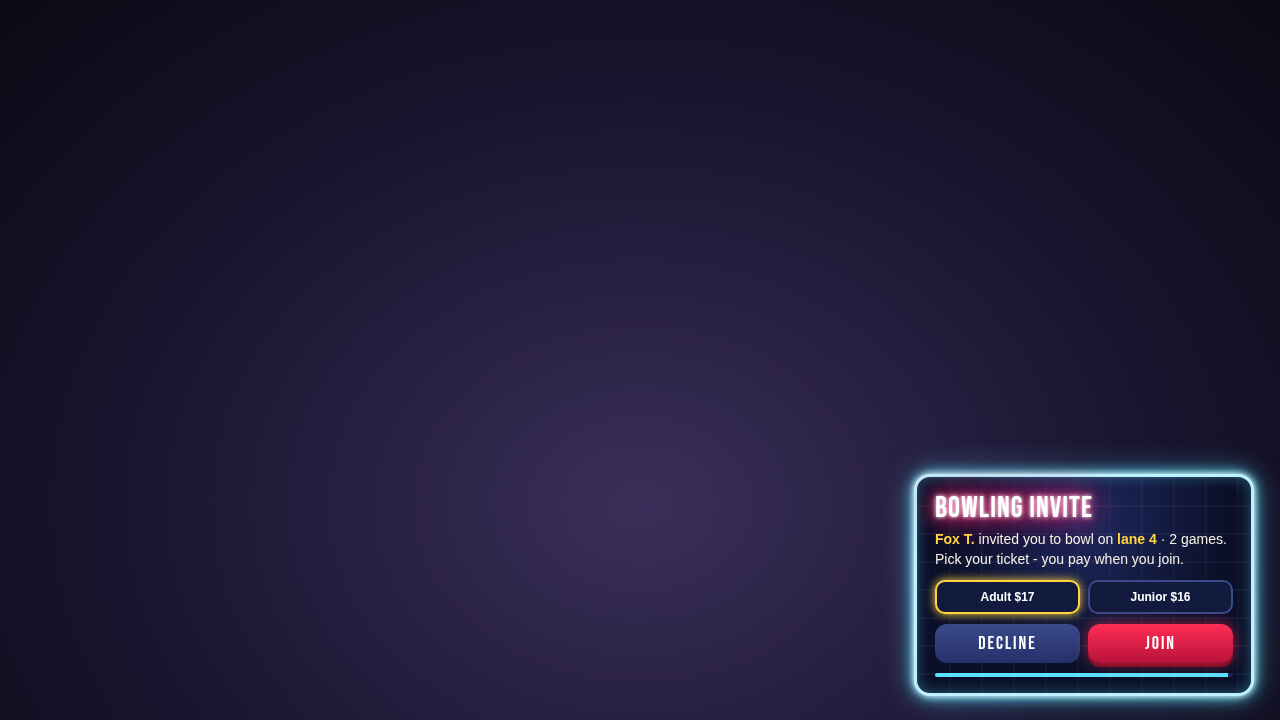
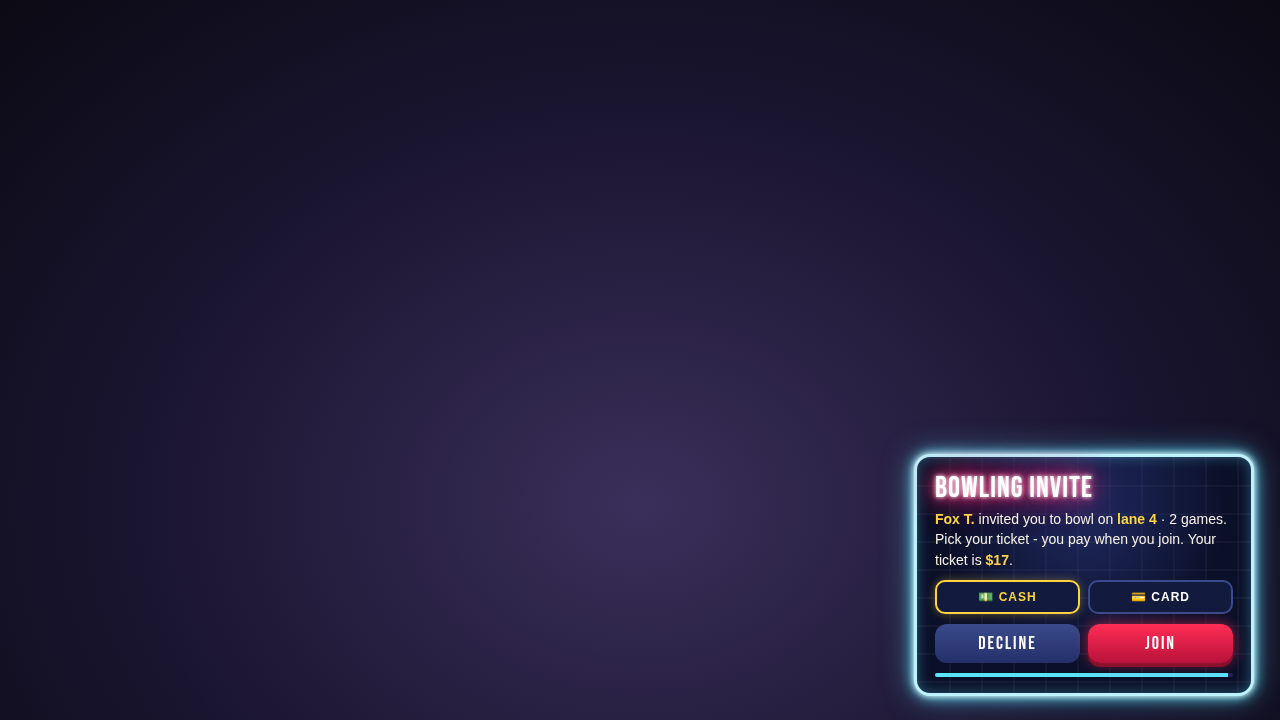
nrp-bowling v2.6.1: choose cash or card when paying
- Cash / Card picker on the price sheet and on pay-your-own invites
- Charges only the chosen account (no silent fallback) and refunds go back
  to the account that paid
- Config.PayMethods lists the options; Config.Account is the default

Claude-Session: https://claude.ai/code/session_01Jvp4fH8hKZq8xQCDQJ6fc4

Changed region(s): [[0.6875, 0.6111, 1.0, 0.8861], [0.875, 0.825, 0.9375, 0.8556]]

diff --git a/fivem/nrp-bowling/html/index.html b/fivem/nrp-bowling/html/index.html
@@ -156,6 +156,10 @@ html, body { width: 100%; height: 100%; overflow: hidden; background: transparen
 .inv.on .box { background: var(--cyan); border-color: var(--cyan); color: #04202a; }
 .inv.off { opacity: .4; cursor: default; }
 .empty { color: var(--muted); font-size: 12px; padding: 8px 2px; }
+.paym { display: flex; gap: 8px; }
+.paym button { flex: 1; padding: 8px; border-radius: 10px; border: 2px solid #3a4a8a; background: #121a3e; color: #fff; font-weight: 800; cursor: pointer; font-size: 12px; letter-spacing: 1px; }
+.paym button.on { border-color: var(--gold); color: var(--gold); box-shadow: 0 0 10px rgba(255,210,63,.35); }
+#invite .paym { margin-bottom: 10px; }
 .total { display: flex; justify-content: space-between; align-items: baseline; font-size: 13px; color: var(--muted); }
 .total b { font-size: 34px; color: #fff; font-family: 'Lanes', Impact, sans-serif; letter-spacing: 1px; }
 .btn { border: none; border-radius: 12px; padding: 12px; cursor: pointer; font-family: 'Lanes', Impact, sans-serif; font-size: 22px; letter-spacing: 2px; background: linear-gradient(var(--hot), #b8123a); color: #fff; box-shadow: 0 0 14px rgba(255,45,85,.6), 0 4px 0 #6c0a22; }
@@ -252,6 +256,7 @@ html, body { width: 100%; height: 100%; overflow: hidden; background: transparen
             <div class="sel-card" id="oSel"><div class="l">Pick something from the menu</div><div class="d">Tap a price on the left.</div></div>
             <div class="inv-h">INVITE FRIENDS <span id="oSeats"></span></div>
             <div class="invlist" id="oInv"></div>
+            <div class="paym" id="oPayM"></div>
             <div class="total">Total <b id="oTotal">$0</b></div>
             <button class="btn" id="oPay" disabled>PAY &amp; PICK LANE</button>
         </div>
@@ -274,6 +279,7 @@ html, body { width: 100%; height: 100%; overflow: hidden; background: transparen
     <div class="h disp neon-pink">BOWLING INVITE</div>
     <div class="t" id="ivTxt"></div>
     <div class="tk" id="ivTk"></div>
+    <div class="paym" id="ivPay"></div>
     <div class="row"><button class="btn alt" id="ivNo" style="background:linear-gradient(#3a4a8a,#25306a);color:#fff;box-shadow:none">DECLINE</button><button class="btn" id="ivYes">JOIN</button></div>
     <div class="timer"><i id="ivBar"></i></div>
 </div>
@@ -405,6 +411,20 @@ function renderMenu() {
         label: `Family of ${el.dataset.n} · 1 game each`, desc: `You pay for the family. Invite up to ${+el.dataset.n - 1} family members - free for them.` }));
     renderOrder();
 }
+/* cash / card picker: draws the buttons into el, calls back with the id */
+function payPicker(el, methods, current, onPick) {
+    el.innerHTML = '';
+    const list = arr(methods);
+    el.classList.toggle('hidden', list.length < 2);
+    list.forEach(m => {
+        const b = document.createElement('button');
+        b.textContent = (m.id === 'bank' ? '💳 ' : '💵 ') + String(m.label).toUpperCase();
+        b.className = m.id === current ? 'on' : '';
+        b.onclick = () => { onPick(m.id); el.querySelectorAll('button').forEach(x => x.className = ''); b.className = 'on'; };
+        el.appendChild(b);
+    });
+}
+let payWith = 'cash';
 function pick(s) { sel = s; const max = seatsFor(s) - 1; invited = new Set([...invited].slice(0, Math.max(0, max))); renderMenu(); }
 function renderOrder() {
     if (!sel) { $('oPay').disabled = true; $('oTotal').textContent = '$0'; }
@@ -432,7 +452,7 @@ function renderOrder() {
 $('oPay').onclick = () => {
     if (!sel) return;
     $('oPay').disabled = true; $('oPay').textContent = 'PAYING...';
-    post('buy', { kind: sel.kind, ticket: sel.ticket, games: sel.games, players: sel.players, invite: [...invited] });
+    post('buy', { kind: sel.kind, ticket: sel.ticket, games: sel.games, players: sel.players, invite: [...invited], pay: payWith });
     setTimeout(() => renderOrder(), 2500);
 };
 function closeAll() { $('menu').classList.add('hidden'); $('lanePick').classList.add('hidden'); }
@@ -456,7 +476,7 @@ $('lpAuto').onclick = () => { closeAll(); post('chooseLane', { lane: 'auto' }); 
 $('lpCancel').onclick = () => { closeAll(); post('cancelBooking'); };
 
 /* ---------- invite ---------- */
-let IV = null, ivTicket = null, ivTimer = null;
+let IV = null, ivTicket = null, ivTimer = null, ivPay = 'cash';
 function showInvite(d) {
     IV = d; ivTicket = d.defaultTicket;
     const games = `${d.games} game${d.games > 1 ? 's' : ''}`;
@@ -473,6 +493,9 @@ function showInvite(d) {
         tk.appendChild(b);
     });
     tk.classList.toggle('hidden', !!d.prepaid || arr(d.tickets).length < 2);
+    ivPay = d.defaultPay || 'cash';
+    if (d.prepaid) { $('ivPay').innerHTML = ''; $('ivPay').classList.add('hidden'); }
+    else payPicker($('ivPay'), d.payMethods, ivPay, (id) => { ivPay = id; });
     if (!d.prepaid && arr(d.tickets).length === 1) {
         const t0 = arr(d.tickets)[0], pr0 = (t0.prices || {})[d.games] ?? arr(t0.prices)[d.games - 1];
         $('ivTxt').innerHTML += ` Your ticket is <b>${money(pr0)}</b>.`;
@@ -487,7 +510,7 @@ function showInvite(d) {
 function answer(yes) {
     clearTimeout(ivTimer); ivTimer = null;
     $('invite').classList.add('hidden');
-    post('inviteAnswer', { accept: yes, ticket: ivTicket });
+    post('inviteAnswer', { accept: yes, ticket: ivTicket, pay: ivPay });
 }
 $('ivYes').onclick = () => answer(true);
 $('ivNo').onclick = () => answer(false);
@@ -512,7 +535,8 @@ window.addEventListener('message', (e) => {
         case 'banner': banner(d.name, d.text, d.final); break;
         case 'caption': caption(d); break;
         case 'power': power(d); break;
-        case 'menu': M = d.data; sel = null; invited = new Set(); $('oSel').innerHTML = '<div class="l">Pick something from the menu</div><div class="d">Tap a price on the left.</div>'; renderMenu(); $('menu').classList.remove('hidden'); break;
+        case 'menu': M = d.data; sel = null; invited = new Set();
+            payWith = M.defaultPay || 'cash'; payPicker($('oPayM'), M.payMethods, payWith, (id) => { payWith = id; }); $('oSel').innerHTML = '<div class="l">Pick something from the menu</div><div class="d">Tap a price on the left.</div>'; renderMenu(); $('menu').classList.remove('hidden'); break;
         case 'lanes': renderLanes(d.lanes); break;
         case 'closeMenu': closeAll(); break;
         case 'invite': showInvite(d.data); break;

diff --git a/fivem/nrp-bowling/README.md b/fivem/nrp-bowling/README.md
@@ -1,4 +1,4 @@
-# nrp-bowling v2.6.0
+# nrp-bowling v2.6.1
 
 A full rebuild of `loaf_bowling` for the Breze bowling MLO (the `bowling` map resource, unchanged).
 
@@ -22,11 +22,13 @@ A full rebuild of `loaf_bowling` for the Breze bowling MLO (the `bowling` map re
    - **Game deals** (2 games, host pays for everyone): 2–6 players, $34–$102.
      A deal **stays locked until you've invited enough friends** standing near you to fill it; the button shows "Invite N more".
      The server checks this as well.
-   - Tick friends standing near you to invite them, then **Pay & pick lane**.
+   - Tick friends standing near you to invite them, choose **Cash** or **Card**, then **Pay & pick lane**.
+     Card takes the money from the bank. Refunds go back to the same place you paid from.
+     `Config.PayMethods` sets the options (remove one to allow only the other); `Config.Account` is the one picked by default.
 2. **Pick your lane** at the desk, or hit **Auto pick a free lane**. Don't pick within 90 s and you're refunded.
 3. **Invites** pop up for your friends with a 45 s timer:
    - On a deal they join **free**.
-   - On a single ticket they pay the adult price when they join.
+   - On a single ticket they pay the adult price when they join, by cash or card (their choice on the invite).
 4. The lane owner presses **G** at the lane to start. 2-game tickets and deals play game 1 and then game 2 automatically.
 5. On your turn, a **blue marker with a bouncing arrow** shows your lane's **ball return**, and a **flashing map blip** points to it.
    Press **E** there: your character bends down and picks up a ball.
